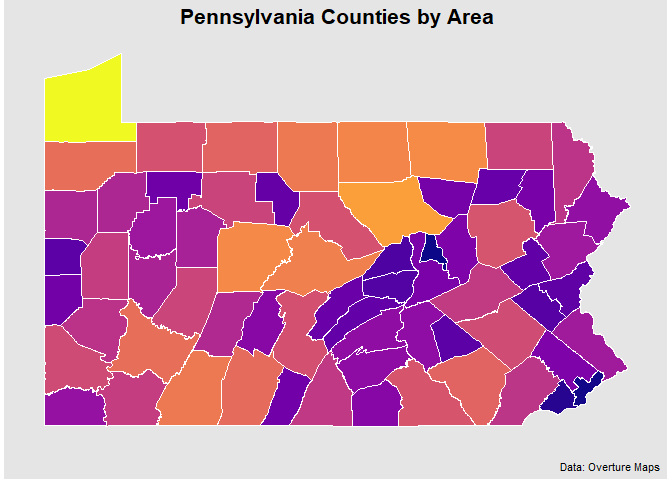
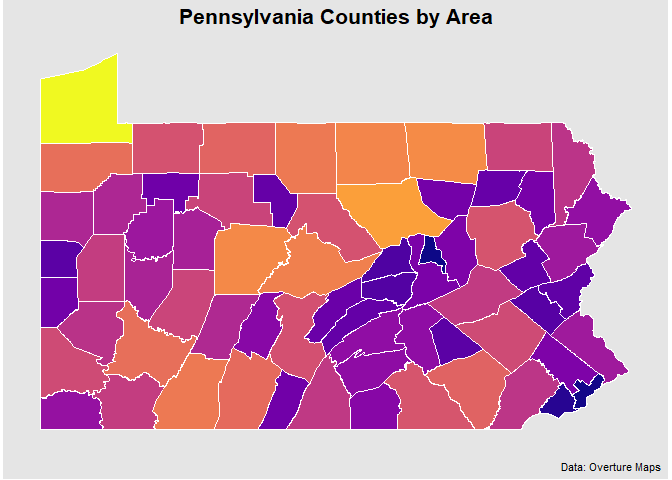
Re-knit README for 0.3.0

diff --git a/README.md b/README.md
@@ -63,7 +63,7 @@ ggplot(counties) +
   ) 
 ```
 
-<img src="man/figures/README-counties-1.png" width="100%" />
+<img src="man/figures/README-counties-1.png" alt="" width="100%" />
 
 ``` r
 library(overtureR)
@@ -84,16 +84,17 @@ mountains <- open_curtain(type = "*", theme = "places") |>
   filter(main_category == "mountain" & confidence > .90)
 
 head(mountains)
+#> # Overture release 2026-08-19.0, theme places
 #> # Source:   SQL [?? x 8]
-#> # Database: DuckDB v1.2.2 [Arthur.Gailes@Windows 10 x64:R 4.5.0/:memory:]
-#>   id           primary_name     x      y main_category primary_source confidence
-#>   <chr>        <chr>        <dbl>  <dbl> <chr>         <chr>               <dbl>
-#> 1 08fb4c586e9… Te Rua Manga -160. -21.2  mountain      meta                0.928
-#> 2 08f89343a1a… Mont Marau   -150. -17.6  mountain      meta                0.928
-#> 3 08f893434b6… Col des 3 c… -150. -17.5  mountain      meta                0.923
-#> 4 08f8922733d… Mont Temeha… -151. -16.8  mountain      meta                0.936
-#> 5 08fa0d9315c… Tekao        -140.  -8.84 mountain      meta                0.928
-#> 6 08fa1193a06… Mont Mokoto  -135. -23.1  mountain      meta                0.936
+#> # Database: DuckDB 1.5.2 [Arthur.Gailes@Windows 10 x64:R 4.5.0/:memory:]
+#>   id            primary_name     x     y main_category primary_source confidence
+#>   <chr>         <chr>        <dbl> <dbl> <chr>         <chr>               <dbl>
+#> 1 0de5d733-2fc… Vallée De L… -149. -17.6 mountain      meta                0.931
+#> 2 a5a93127-85f… Mont Rotui   -150. -17.5 mountain      meta                0.912
+#> 3 d6ea3b50-3a9… Vallée De T… -150. -17.6 mountain      meta                0.969
+#> 4 c3ce4dc2-cef… Belvédère D… -150. -17.5 mountain      meta                0.962
+#> 5 34e195ed-66a… Mont Popoti  -152. -16.5 mountain      meta                0.917
+#> 6 2bfb43ed-753… Vaipao Vall… -151. -16.7 mountain      meta                0.912
 #> # ℹ 1 more variable: geometry <POINT [°]>
 ```
 
@@ -145,10 +146,10 @@ plot_gg(
 render_snapshot(clear=TRUE)
 ```
 
-<img src="man/figures/README-record-1.png" width="100%" />
+<img src="man/figures/README-record-1.png" alt="" width="100%" />
 
 ## Roadmap
 
 - Tile-by-tile downloads with a progress bar in `record_overture()`
-- Mapping vignette (including Overture's PMTiles through `mapgl`)
+- Mapping vignette (including Overture’s PMTiles through `mapgl`)
 - Performance vignette
